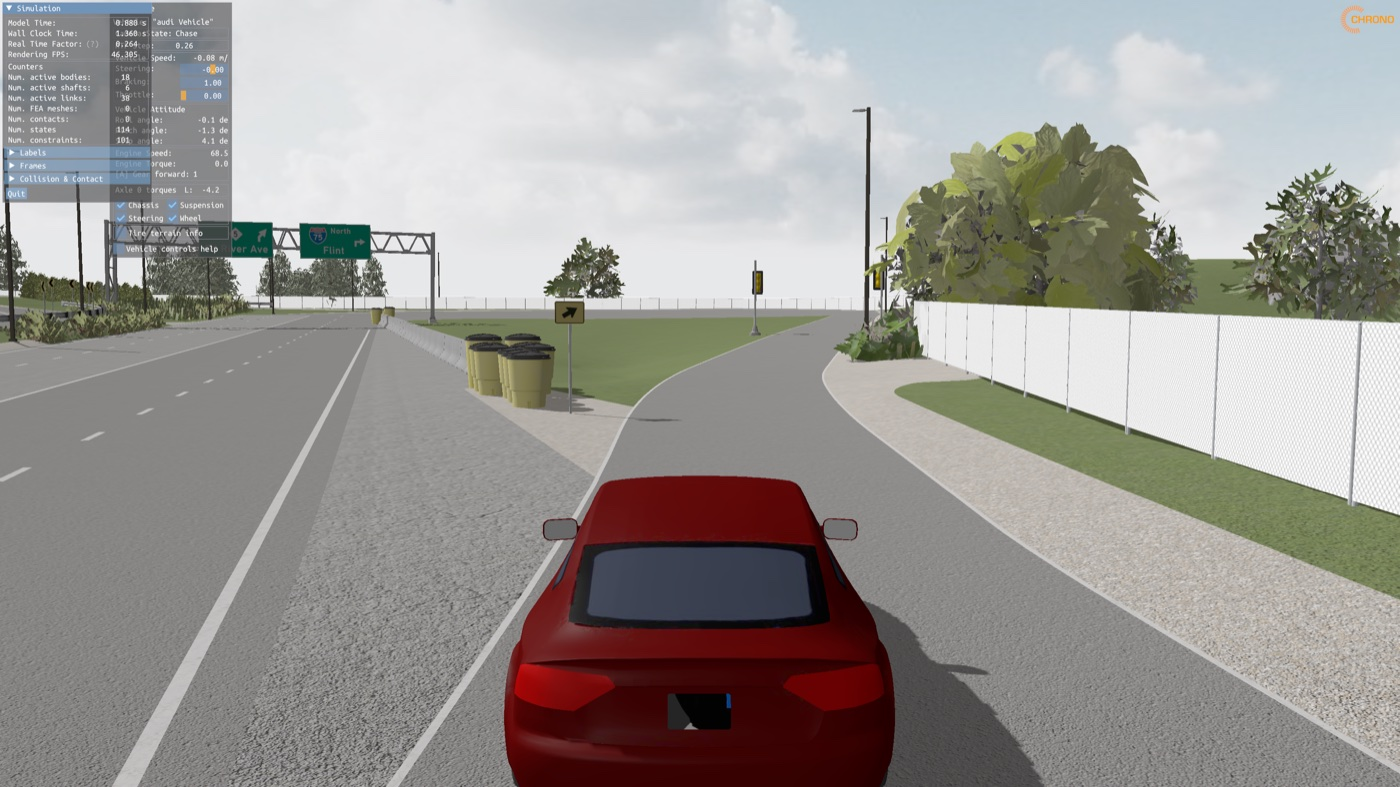
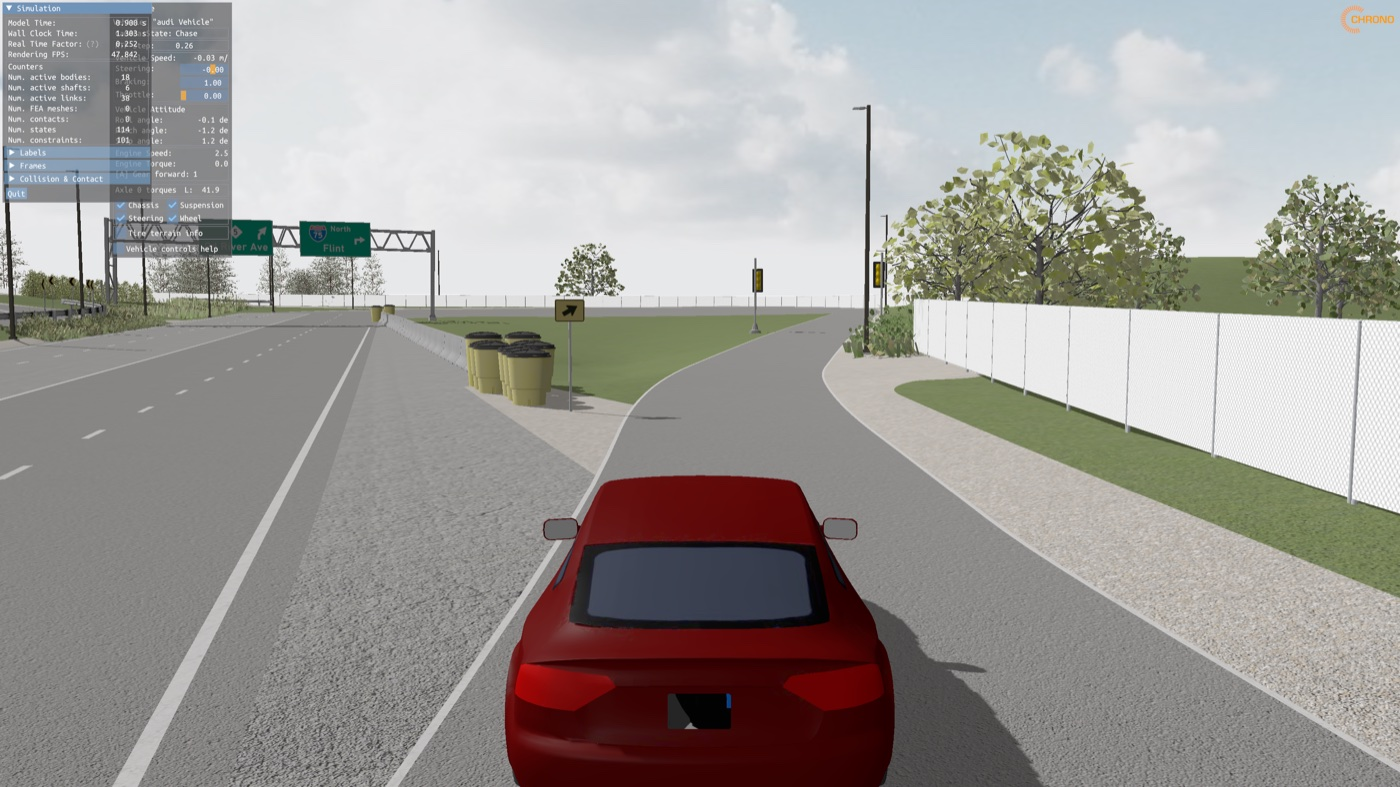
Move to the v3 scene: leaves and branches at a sane size
The v2 vegetation kept its crowns full by enlarging leaves without
limit, and some came out half the height of the tree. v3 draws about
ten times as many leaves, each capped at a twentieth of its plant, and
proper branch stems where v2 left dark shards.

Vegetation now carries a version of its own, and a scene this script
installed has older vegetation replaced when a level is asked for.

diff --git a/mcity.py b/mcity.py
@@ -39,12 +39,12 @@ import urllib.request
 
 # The published scene. Pinned archives, each checked against its hash before anything is unpacked,
 # so a changed or truncated download fails here and not later as a half-loaded scene.
-RELEASE = "https://github.com/ksha23/chrono-mcity/releases/download/v2/"
+RELEASE = "https://github.com/ksha23/chrono-mcity/releases/download/v3/"
 SCENE_URL = RELEASE + "mcity_scene_base.tar.gz"
[2 lines of base64/hex data omitted]
 # Vegetation, as an add-on that unpacks over the base scene. Only fetched when asked for.
 FOLIAGE_URL = RELEASE + "mcity_scene_foliage.tar.gz"
[2 lines of base64/hex data omitted]
 SCENE_DIR = os.path.join(os.path.dirname(os.path.abspath(__file__)), "scene")
 
 MANIFEST = "mcity_scene.json"
@@ -68,6 +68,9 @@ FOLIAGE_MEMORY_GB = {"none": 5, "trees": 7, "trees-leaf": 8, "shrubs": 8, "full"
 
 # The scene format this script expects. fetch() replaces an older scene it installed itself.
 SCENE_VERSION = 2
+# The vegetation has a version of its own. 1 had leaves enlarged without limit, some of them
+# metres across. 2 draws many modest leaves and proper branches.
+FOLIAGE_VERSION = 2
 MARKER = ".mcity-scene"
 
 # A pose on a real Mcity lane, facing along the carriageway: x, y in metres and yaw in radians.
@@ -118,13 +121,31 @@ def fetch(scene_dir=SCENE_DIR, foliage="none"):
         os.replace(partial, scene_dir)
         print(f"  scene ready in {scene_dir}")
 
-    if foliage != "none" and not all(_has(scene_dir, m) for m in FOLIAGE.values()):
-        print(f"Mcity vegetation not found in {scene_dir}")
-        partial = _download_and_unpack(os.environ.get("MCITY_FOLIAGE_URL", FOLIAGE_URL), FOLIAGE_SHA256, scene_dir)
-        _merge(partial, scene_dir)
-        print("  vegetation ready")
+    if foliage != "none":
+        present = all(_has(scene_dir, m) for m in FOLIAGE.values())
+        if present and _foliage_version(scene_dir) < FOLIAGE_VERSION:
+            if _has(scene_dir, MARKER) or scene_dir == os.path.abspath(SCENE_DIR):
+                print(f"The vegetation in {scene_dir} is an older version. Fetching the current one over it.")
+                present = False
+            else:
+                print(f"Note: {scene_dir} holds older vegetation (version {_foliage_version(scene_dir)}, this "
+                      f"script expects {FOLIAGE_VERSION}). It was not installed by this script, so it is used as it is.")
+        if not present:
+            print(f"Fetching Mcity vegetation into {scene_dir}")
+            partial = _download_and_unpack(os.environ.get("MCITY_FOLIAGE_URL", FOLIAGE_URL), FOLIAGE_SHA256, scene_dir)
+            _merge(partial, scene_dir)
+            print("  vegetation ready")
 
     return scene_dir
+
+
+def _foliage_version(scene_dir):
+    """The version the vegetation manifests declare. The first published set declared none."""
+    try:
+        with open(os.path.join(scene_dir, FOLIAGE["full"])) as f:
+            return int(json.load(f).get("vegetation", 1))
+    except (OSError, ValueError):
+        return 0
 
 
 def _version(scene_dir):

diff --git a/README.md b/README.md
@@ -51,10 +51,10 @@ python mcity.py --foliage full
 | Level | Plants | Triangles in the scene | Stock PyChrono, shadows on |
 | --- | --- | --- | --- |
 | `none` | none | 1.4 M | 46 frames/s, 5 GB |
-| `trees` | 447 trees, bare branches | 4.0 M | 45 frames/s, 6 GB |
+| `trees` | 447 trees, bare branches | 4.0 M | 44 frames/s, 6 GB |
 | `trees-leaf` | 447 trees with leaves | 5.4 M | 43 frames/s, 7 GB |
-| `shrubs` | 2,009 trees and shrubs, bare branches | 5.9 M | 39 frames/s, 7 GB |
-| `full` | 2,009 trees and shrubs with leaves | 5.9 M | 36 frames/s, 8 GB |
+| `shrubs` | 2,009 trees and shrubs, bare branches | 5.9 M | 40 frames/s, 7 GB |
+| `full` | 2,009 trees and shrubs with leaves | 5.9 M | 38 frames/s, 8 GB |
 
 Measured on PyChrono build 1187 on an M4 Pro, at real time.
 
@@ -62,8 +62,12 @@ The plants upstream are film-grade models, about 1.85 billion triangles for the 
 instanced branches are expanded. Stock Chrono::VSG draws every triangle of a scene every frame,
 and again for each shadow map, and on that machine it falls from 40 frames a second to 12
 somewhere between 6 and 8 million triangles. So each level is built to stay under 6 million.
-Trunks and branches are welded down, and leaves are thinned and then enlarged so the crown keeps
-its cover. From the road they read as trees. Up close the leaves are plainly oversized.
+
+A tree gets about 7,000 triangles. Its trunk is welded down. Each branch keeps its few real
+stems, redrawn as tapered sticks, and loses most of its thousand twigs. Its leaves are thinned
+to about a thousand, each drawn as a simple outline and enlarged to win back cover, up to a
+twentieth of the tree's height. That is larger than a real leaf and it shows up close. From the
+road it reads as a tree.
 
 ## Use Mcity in your own simulation
 
@@ -168,13 +172,13 @@ The vegetation archive adds one manifest per level (`mcity_scene_trees_bare.json
 To fetch the scene without the script:
 
 ```sh
-curl -LO https://github.com/ksha23/chrono-mcity/releases/download/v2/mcity_scene_base.tar.gz
-echo "daf79764350bba37878437541de591e152d8187e5a35aa0878054559b154735a  mcity_scene_base.tar.gz" | shasum -a 256 -c
+curl -LO https://github.com/ksha23/chrono-mcity/releases/download/v3/mcity_scene_base.tar.gz
+echo "af202b7cf7f3e2356c3fc18c1262f3edf314a9bb6e317d18c485ef9c9a60bbe6  mcity_scene_base.tar.gz" | shasum -a 256 -c
 mkdir scene && tar -xzf mcity_scene_base.tar.gz -C scene
 
 # optional vegetation, over the top
-curl -LO https://github.com/ksha23/chrono-mcity/releases/download/v2/mcity_scene_foliage.tar.gz
-echo "443f33b83a76f4d8158f441d238473087a9e779f3d194407a307ad9daad33527  mcity_scene_foliage.tar.gz" | shasum -a 256 -c
+curl -LO https://github.com/ksha23/chrono-mcity/releases/download/v3/mcity_scene_foliage.tar.gz
+echo "f2903e5444a389b579ee545e36bf78e5b86457f78e20f878fc9d6721c7df987b  mcity_scene_foliage.tar.gz" | shasum -a 256 -c
 tar -xzf mcity_scene_foliage.tar.gz -C scene
 ```
 
@@ -205,12 +209,13 @@ Converted once from the upstream USD stage, so nobody else has to:
 | | |
 | --- | --- |
 | Upstream | [`mcity/mcity-digital-twin@3e8096b`](https://github.com/mcity/mcity-digital-twin/tree/3e8096b8ea2e48762cd512839d9dc8559814f6e6), stage `Omniverse/Collected_McityMap_NSR_v4_1_6/McityMap_Main.usdc` |
-| Converter | [`ksha23/chrono@78a9769`](https://github.com/ksha23/chrono/tree/78a9769cb0b1e87d0f47c26e2429ef11bf2489a8/src/demos/vehicle/terrain/mcity) |
+| Converter | [`ksha23/chrono@e336e0a`](https://github.com/ksha23/chrono/tree/e336e0abe8636c0ac425e970f5a67fcd601e8194/src/demos/vehicle/terrain/mcity) |
 
 Release `v1` was the first conversion. An audit against the upstream stage then found it had
 missed most of every tree, one traffic light, the gutters in the collision ground, ten
 materials' textures, glass opacity, lamp emission, the sky, the labels and the lights. `v2` is
-the conversion with those fixed.
+the conversion with those fixed. `v3` rebuilds the vegetation again: `v2` kept its crowns full
+by enlarging leaves without limit, some to half the height of the tree.
 
 ## Licence and credit
 
